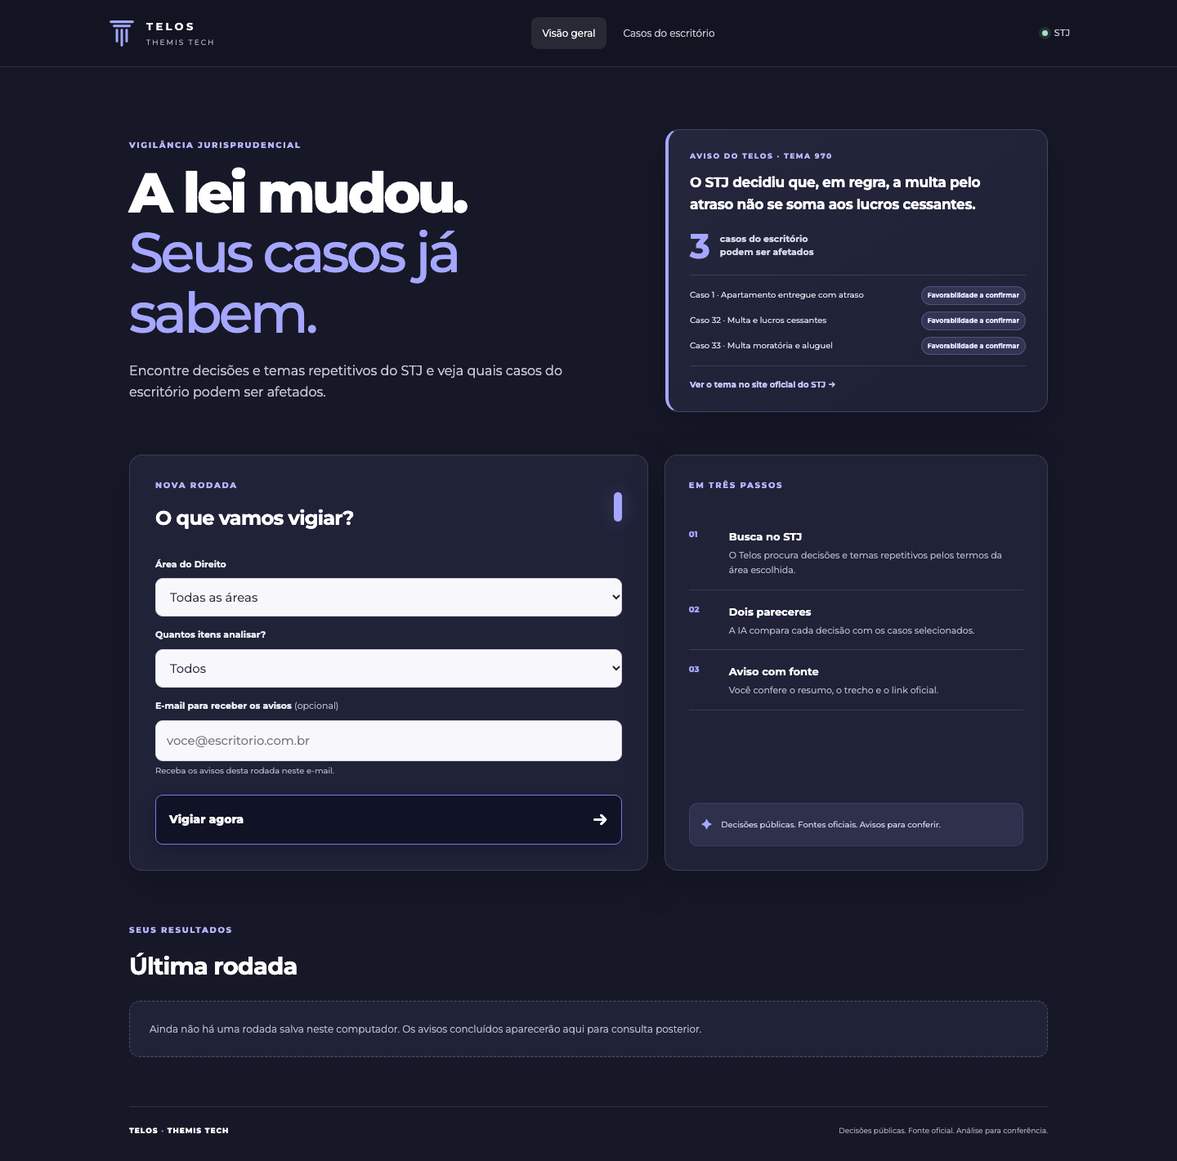
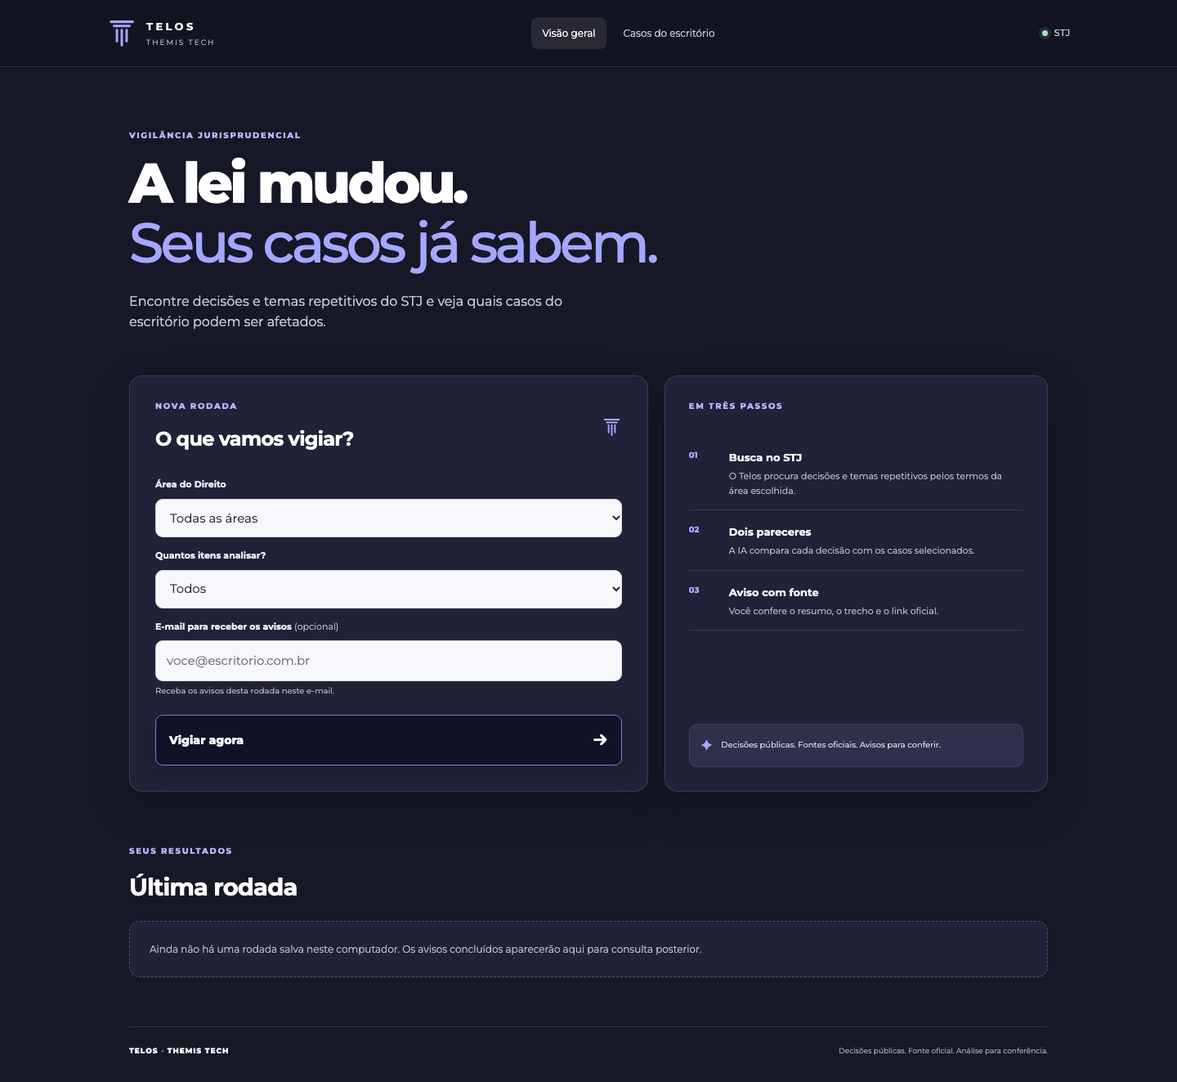
Remove o aviso de exemplo da página

diff --git a/static/style.css b/static/style.css
@@ -1,4 +1,4 @@
 :root{--navy:#171827;--navy-2:#202238;--navy-3:#292c45;--ink:#f4f4fb;--muted:#b7b8ca;--lav:#a5a7ff;--lav-light:#e9e9ff;--white:#fff;--line:rgba(226,227,255,.14);--green:#9fe2c0;--green-bg:#213c39;--red:#ffb3b0;--red-bg:#482e38;--shadow:0 18px 48px rgba(4,5,16,.22)}
-*{box-sizing:border-box}html{scroll-behavior:smooth}body{margin:0;background:var(--navy);color:var(--ink);font-family:Montserrat,system-ui,Arial,sans-serif;font-size:15px;line-height:1.6}.topbar{min-height:82px;background:#131421;color:#fff;display:flex;align-items:center;justify-content:space-between;padding:0 max(26px,calc((100vw - 1180px)/2));gap:28px;border-bottom:1px solid var(--line)}.brand{display:flex;align-items:center;gap:11px;color:#fff;text-decoration:none;letter-spacing:.16em}.brand-mark{width:38px;height:38px;object-fit:contain;display:block}.brand strong,.brand small{display:block}.brand strong{font-size:13px;letter-spacing:.26em}.brand small{color:#b9b9ca;font-size:9px;letter-spacing:.22em;margin-top:2px}.topbar nav{display:flex;align-items:center;gap:8px}.topbar nav a{color:#c5c5d0;text-decoration:none;font-size:12px;padding:10px 13px;border-radius:8px}.topbar nav a:hover,.topbar nav a.active{background:rgba(255,255,255,.09);color:#fff}.live-tag{display:flex;align-items:center;gap:8px;color:#d7d7e2;font-size:11px;letter-spacing:.06em}.live-tag i{width:7px;height:7px;border-radius:50%;background:#a5e3c5;box-shadow:0 0 0 4px rgba(165,227,197,.13)}.page-wrap{max-width:1180px;padding:0 28px;margin:0 auto}.hero{padding:76px 0 52px}.hero-grid{display:grid;grid-template-columns:minmax(0,1fr) minmax(340px,.78fr);gap:56px;align-items:center}.eyebrow{color:#b5b6ff;font-size:10px;font-weight:800;letter-spacing:.17em;margin:0 0 13px}.hero h1{font-size:clamp(42px,5.5vw,68px);line-height:1.08;letter-spacing:-.055em;color:#fff;margin:0;font-weight:750}.hero h1 em{font-weight:500;color:var(--lav);font-style:normal}.hero-copy{color:#c4c5d2;font-size:16px;max-width:600px;margin:22px 0 0}.example-alert{position:relative;background:linear-gradient(145deg,#24263c,#1e2034);border:1px solid rgba(165,167,255,.24);border-left:4px solid var(--lav);border-radius:17px;padding:25px 26px 22px;box-shadow:var(--shadow)}.example-alert .eyebrow{font-size:9px;margin-bottom:12px}.example-alert h2{font-size:17px;line-height:1.55;letter-spacing:-.02em;color:#fff;margin:0 0 17px}.example-impact{display:flex;align-items:center;gap:12px;color:#d6d6e4;margin-bottom:14px}.example-impact strong{font-size:42px;line-height:1;color:var(--lav)}.example-impact span{font-size:11px;line-height:1.45;font-weight:700}.example-cases{display:grid;grid-template-columns:minmax(0,1fr) auto;gap:8px 13px;padding:13px 0;border-top:1px solid var(--line);border-bottom:1px solid var(--line);align-items:center}.example-cases span{font-size:10px;color:#e3e3ed}.example-cases b{font-size:8px;color:#e5e5ff;background:rgba(165,167,255,.14);border:1px solid rgba(165,167,255,.25);padding:4px 7px;border-radius:20px;white-space:nowrap}.example-alert>a{display:inline-flex;margin-top:15px;color:#c4c5ff;font-size:10px;font-weight:700;text-decoration:none}.example-alert>a:hover{text-decoration:underline}.watch-layout{display:grid;grid-template-columns:minmax(0,1.15fr) minmax(290px,.85fr);gap:20px;align-items:stretch}.panel{background:var(--navy-2);border:1px solid var(--line);border-radius:16px;box-shadow:var(--shadow)}.watch-panel{padding:29px 31px 31px}.panel-heading{display:flex;align-items:center;justify-content:space-between;margin-bottom:22px}.panel-heading h2,.section-title-row h2{margin:0;color:#fff;letter-spacing:-.03em;font-size:24px}.panel-mark{width:10px;height:36px;border-radius:8px;background:var(--lav);box-shadow:0 0 22px rgba(165,167,255,.28)}.watch-panel form{display:grid;grid-template-columns:1fr;gap:8px}.watch-panel label{font-size:11px;font-weight:700;color:#eeeef6;margin-top:6px}.watch-panel label span{font-weight:400;color:var(--muted)}input,select{width:100%;font:inherit;color:#24263a;border:1px solid #d8d8e3;border-radius:9px;background:#f8f8fc;padding:12px 13px;outline:none}input:focus,select:focus{border-color:#9395ff;box-shadow:0 0 0 3px rgba(165,167,255,.2)}.field-note{font-size:10px;color:#b7b8ca;margin:-4px 0 2px}.button{border:0;border-radius:9px;font:inherit;font-weight:750;cursor:pointer;transition:transform .16s ease,background .16s ease}.primary{background:#101326;color:#fff;padding:13px 16px;border:1px solid #777be0;box-shadow:0 6px 20px rgba(6,8,23,.24)}.primary:hover{background:#252a50;transform:translateY(-1px)}.primary:disabled{opacity:.55;cursor:wait;transform:none}.watch-button{margin-top:11px;display:flex;justify-content:space-between;align-items:center;font-size:14px}.watch-button span:last-child{font-size:21px}.form-error{background:var(--red-bg);color:var(--red);border-radius:8px;padding:10px 12px;font-size:12px;margin:4px 0 0}.how-panel{padding:29px;display:flex;flex-direction:column}.steps{padding:0;margin:15px 0 20px;list-style:none}.steps li{display:grid;grid-template-columns:36px 1fr;gap:13px;padding:14px 0;border-bottom:1px solid var(--line)}.steps li>span{color:var(--lav);font-size:10px;font-weight:800;padding-top:2px}.steps strong{color:#fff;font-size:13px}.steps p{color:var(--muted);font-size:11px;margin:3px 0 0}.privacy-note{display:flex;align-items:center;gap:11px;background:rgba(165,167,255,.1);border:1px solid rgba(165,167,255,.13);border-radius:10px;padding:12px 14px;margin-top:auto;color:var(--lav)}.privacy-note span{font-size:17px}.privacy-note p{color:#d3d3e2;font-size:10px;margin:0}.progress-panel{margin-top:22px;padding:17px 20px;border-radius:13px;background:#10111e;border:1px solid var(--line);color:#fff;display:grid;grid-template-columns:40px minmax(0,1fr);gap:10px 13px;align-items:center}.progress-panel[hidden]{display:none}.progress-symbol{width:34px;height:34px;border-radius:50%;border:3px solid rgba(165,167,255,.28);border-top-color:var(--lav);animation:spin 1s linear infinite}.progress-copy strong{font-size:13px}.progress-copy p{color:#c8c8d7;font-size:11px;margin:2px 0 0}.progress-track{grid-column:1/-1;height:4px;background:#45465a;border-radius:9px;overflow:hidden}.progress-track span{display:block;height:100%;width:5%;background:var(--lav);border-radius:9px;transition:width .4s ease}.section-block{margin-top:65px}.section-title-row{display:flex;justify-content:space-between;align-items:end;margin-bottom:18px}.section-title-row h2{font-size:29px}.last-round-date{color:var(--muted);font-size:10px}.round-summary{display:flex;flex-wrap:wrap;gap:8px;margin-bottom:14px}.summary-chip{background:rgba(165,167,255,.14);border:1px solid rgba(165,167,255,.15);border-radius:20px;padding:6px 11px;color:#d8d8ff;font-size:10px;font-weight:700}.notice-grid{display:grid;grid-template-columns:1fr 1fr;gap:14px}.notice-card,.review-card{padding:22px 23px}.notice-card h3{font-size:15px;line-height:1.5;color:#fff;margin:0 0 10px}.impact-count{display:flex;align-items:baseline;gap:8px;color:#e8e8f1;margin-bottom:12px}.impact-count strong{font-size:32px;line-height:1;color:var(--lav)}.impact-count span{font-size:11px;font-weight:700}.decision-meta{color:#b7b8ca;font-size:9px;margin:8px 0 12px}.affected-list{list-style:none;padding:0;margin:0;border-top:1px solid var(--line)}.affected-list li{display:flex;justify-content:space-between;align-items:center;gap:10px;padding:10px 0;border-bottom:1px solid var(--line);font-size:11px}.badge{font-size:8px;font-weight:800;letter-spacing:.035em;padding:5px 8px;border-radius:20px;white-space:nowrap}.badge.good{background:var(--green-bg);color:var(--green)}.badge.bad{background:var(--red-bg);color:var(--red)}.badge.uncertain{background:#38394d;color:#e2e2ef}.evidence{margin:13px 0 0;background:rgba(165,167,255,.1);border-left:3px solid var(--lav);border-radius:0 8px 8px 0;padding:12px 13px;color:#eeeeff;font-size:12px;line-height:1.6}.evidence small{font:700 9px/1.5 Montserrat,system-ui,sans-serif;color:#b7b8ca;display:block;margin-bottom:3px}.official-link{display:inline-flex;margin-top:16px;color:#c4c5ff;font-size:10px;font-weight:750;text-decoration:none}.official-link:hover{text-decoration:underline}.review-section{margin-top:33px}.review-section h3{font-size:13px;letter-spacing:.08em;color:#d7d7ff;margin:0 0 13px}.review-card{background:#2d2942;border-color:rgba(225,194,255,.22);box-shadow:none;margin-bottom:12px}.review-case-title{font-weight:750;color:#fff;font-size:12px;margin:14px 0 8px}.opinion-grid{display:grid;grid-template-columns:1fr 1fr;gap:9px}.opinion{background:#211f32;border:1px solid rgba(225,194,255,.16);border-radius:9px;padding:12px;font-size:10px;white-space:pre-line;line-height:1.6;color:#eceaf5}.opinion strong{display:block;color:#d0b4ff;font-size:9px;letter-spacing:.08em;margin-bottom:6px}.divergence{margin:12px 0 0;background:rgba(215,180,255,.12);border-radius:7px;padding:10px 12px;font-size:10px;color:#e8d9ff}.empty-state{background:var(--navy-2);border:1px dashed rgba(226,227,255,.24);border-radius:13px;padding:24px;color:var(--muted);font-size:12px}.footer{border-top:1px solid var(--line);margin-top:60px;padding:22px 0 30px;display:flex;justify-content:space-between;gap:15px;color:#a7a8ba;font-size:9px}.footer-brand{letter-spacing:.11em;font-weight:800;color:#fff}.footer-brand b{color:#8586de}.footer a{color:#c4c5ff;text-decoration:none}.compact-hero{padding:58px 0 32px}.compact-hero h1{font-size:46px}.case-grid{display:grid;grid-template-columns:repeat(3,1fr);gap:14px}.case-card{padding:21px}.case-area{font-size:8px;text-transform:uppercase;letter-spacing:.12em;color:#b5b6ff;font-weight:800}.case-card h2{font-size:14px;line-height:1.5;color:#fff;margin:10px 0 7px}.case-card p{font-size:11px;color:#c4c5d2;margin:0}.cases-page .footer{margin-top:38px}.demo-toggle{display:flex;align-items:center;gap:12px;padding:12px 13px;margin:0 0 5px;background:rgba(165,167,255,.1);border:1px solid var(--line);border-radius:10px;cursor:pointer}.demo-toggle input{width:17px;height:17px;accent-color:#7477dc}.toggle-copy strong,.toggle-copy small{display:block}.toggle-copy strong{font-size:11px}.toggle-copy small{font-size:9px;font-weight:400;color:var(--muted);margin-top:2px}.cases-action{display:flex;align-items:center;gap:14px;margin-bottom:18px}.quiet-button{border:0;background:transparent;color:#d4d4ff;font:inherit;font-size:11px;font-weight:700;cursor:pointer;padding:9px}.wizard{max-width:720px;margin:0 0 24px;padding:24px}.wizard[hidden],.wizard-step[hidden]{display:none}.wizard-head{display:flex;justify-content:space-between;align-items:center}.wizard-step h2{color:#fff;margin:5px 0 16px}.wizard-step label{display:block;margin:11px 0 5px;font-size:11px;font-weight:700}.wizard-step label small{font-weight:400;color:var(--muted)}.wizard-step input,.wizard-step select,.wizard-step textarea{width:100%;padding:11px;border:1px solid #d8d8e3;border-radius:8px;font:inherit;color:#24263a}.wizard-step textarea{resize:vertical}.wizard-step>.button,.wizard-step>button[type=submit]{margin-top:18px}.privacy-lock{font-size:24px;color:#c3c4ff}.privacy-columns{display:grid;grid-template-columns:1fr 1fr;gap:12px;margin:17px 0}.privacy-columns>div{padding:14px;border-radius:9px;background:rgba(165,167,255,.1);font-size:11px}.privacy-columns strong{color:#fff}.privacy-columns p{margin:5px 0 0;color:var(--muted)}.email-action{display:flex;align-items:center;gap:14px;margin-top:18px}.email-action[hidden]{display:none}.email-action span{font-size:11px;color:var(--muted)}.no-impact-card{padding:20px;margin:12px 0}.no-impact-card h3{font-size:14px;color:#fff;margin:0 0 9px}.simulation-example{margin-top:15px}.simulation-example .notice-card{margin:0}.simulation-example>.field-note{margin:12px 0 0}@keyframes spin{to{transform:rotate(360deg)}}
-@media(max-width:900px){.hero-grid{grid-template-columns:1fr 1fr;gap:28px}.watch-layout{grid-template-columns:1fr}.case-grid{grid-template-columns:repeat(2,1fr)}.notice-grid{grid-template-columns:1fr}}
-@media(max-width:640px){.topbar{min-height:70px;padding:12px 16px;gap:10px;flex-wrap:wrap}.topbar nav{order:3;width:100%;justify-content:center}.topbar nav a{font-size:10px;padding:8px 10px}.live-tag{font-size:9px}.page-wrap{padding:0 17px}.hero{padding:45px 0 32px}.hero-grid{grid-template-columns:1fr;gap:27px}.hero h1{font-size:clamp(39px,11vw,54px)}.hero-copy{font-size:13px;margin-top:16px}.example-alert{padding:21px}.example-alert h2{font-size:15px}.example-cases{grid-template-columns:minmax(0,1fr) auto;gap:8px}.example-cases span{font-size:9px}.example-cases b{font-size:7px;padding:4px 6px}.watch-panel,.how-panel{padding:21px}.panel-heading h2{font-size:20px}.section-block{margin-top:43px}.section-title-row h2{font-size:24px}.case-grid{grid-template-columns:1fr}.opinion-grid{grid-template-columns:1fr}.footer{flex-direction:column}.last-round-date{max-width:120px;text-align:right}.privacy-columns{grid-template-columns:1fr}.email-action{align-items:flex-start;flex-direction:column}.notice-card,.review-card{padding:19px}.footer{margin-top:42px}}
+*{box-sizing:border-box}html{scroll-behavior:smooth}body{margin:0;background:var(--navy);color:var(--ink);font-family:Montserrat,system-ui,Arial,sans-serif;font-size:15px;line-height:1.6}.topbar{min-height:82px;background:#131421;color:#fff;display:flex;align-items:center;justify-content:space-between;padding:0 max(26px,calc((100vw - 1180px)/2));gap:28px;border-bottom:1px solid var(--line)}.brand{display:flex;align-items:center;gap:11px;color:#fff;text-decoration:none;letter-spacing:.16em}.brand-mark{width:38px;height:38px;object-fit:contain;display:block}.brand strong,.brand small{display:block}.brand strong{font-size:13px;letter-spacing:.26em}.brand small{color:#b9b9ca;font-size:9px;letter-spacing:.22em;margin-top:2px}.topbar nav{display:flex;align-items:center;gap:8px}.topbar nav a{color:#c5c5d0;text-decoration:none;font-size:12px;padding:10px 13px;border-radius:8px}.topbar nav a:hover,.topbar nav a.active{background:rgba(255,255,255,.09);color:#fff}.live-tag{display:flex;align-items:center;gap:8px;color:#d7d7e2;font-size:11px;letter-spacing:.06em}.live-tag i{width:7px;height:7px;border-radius:50%;background:#a5e3c5;box-shadow:0 0 0 4px rgba(165,227,197,.13)}.page-wrap{max-width:1180px;padding:0 28px;margin:0 auto}.hero{padding:76px 0 52px}.eyebrow{color:#b5b6ff;font-size:10px;font-weight:800;letter-spacing:.17em;margin:0 0 13px}.hero h1{font-size:clamp(42px,5.5vw,68px);line-height:1.08;letter-spacing:-.055em;color:#fff;margin:0;font-weight:750}.hero h1 em{font-weight:500;color:var(--lav);font-style:normal}.hero-copy{color:#c4c5d2;font-size:16px;max-width:600px;margin:22px 0 0}.watch-layout{display:grid;grid-template-columns:minmax(0,1.15fr) minmax(290px,.85fr);gap:20px;align-items:stretch}.panel{background:var(--navy-2);border:1px solid var(--line);border-radius:16px;box-shadow:var(--shadow)}.watch-panel{padding:29px 31px 31px}.panel-heading{display:flex;align-items:center;justify-content:space-between;margin-bottom:22px}.panel-heading h2,.section-title-row h2{margin:0;color:#fff;letter-spacing:-.03em;font-size:24px}.panel-mark{width:25px;height:25px;object-fit:contain;display:block}.watch-panel form{display:grid;grid-template-columns:1fr;gap:8px}.watch-panel label{font-size:11px;font-weight:700;color:#eeeef6;margin-top:6px}.watch-panel label span{font-weight:400;color:var(--muted)}input,select{width:100%;font:inherit;color:#24263a;border:1px solid #d8d8e3;border-radius:9px;background:#f8f8fc;padding:12px 13px;outline:none}input:focus,select:focus{border-color:#9395ff;box-shadow:0 0 0 3px rgba(165,167,255,.2)}.field-note{font-size:10px;color:#b7b8ca;margin:-4px 0 2px}.button{border:0;border-radius:9px;font:inherit;font-weight:750;cursor:pointer;transition:transform .16s ease,background .16s ease}.primary{background:#101326;color:#fff;padding:13px 16px;border:1px solid #777be0;box-shadow:0 6px 20px rgba(6,8,23,.24)}.primary:hover{background:#252a50;transform:translateY(-1px)}.primary:disabled{opacity:.55;cursor:wait;transform:none}.watch-button{margin-top:11px;display:flex;justify-content:space-between;align-items:center;font-size:14px}.watch-button span:last-child{font-size:21px}.form-error{background:var(--red-bg);color:var(--red);border-radius:8px;padding:10px 12px;font-size:12px;margin:4px 0 0}.how-panel{padding:29px;display:flex;flex-direction:column}.steps{padding:0;margin:15px 0 20px;list-style:none}.steps li{display:grid;grid-template-columns:36px 1fr;gap:13px;padding:14px 0;border-bottom:1px solid var(--line)}.steps li>span{color:var(--lav);font-size:10px;font-weight:800;padding-top:2px}.steps strong{color:#fff;font-size:13px}.steps p{color:var(--muted);font-size:11px;margin:3px 0 0}.privacy-note{display:flex;align-items:center;gap:11px;background:rgba(165,167,255,.1);border:1px solid rgba(165,167,255,.13);border-radius:10px;padding:12px 14px;margin-top:auto;color:var(--lav)}.privacy-note span{font-size:17px}.privacy-note p{color:#d3d3e2;font-size:10px;margin:0}.progress-panel{margin-top:22px;padding:17px 20px;border-radius:13px;background:#10111e;border:1px solid var(--line);color:#fff;display:grid;grid-template-columns:40px minmax(0,1fr);gap:10px 13px;align-items:center}.progress-panel[hidden]{display:none}.progress-symbol{width:34px;height:34px;border-radius:50%;border:3px solid rgba(165,167,255,.28);border-top-color:var(--lav);animation:spin 1s linear infinite}.progress-copy strong{font-size:13px}.progress-copy p{color:#c8c8d7;font-size:11px;margin:2px 0 0}.progress-track{grid-column:1/-1;height:4px;background:#45465a;border-radius:9px;overflow:hidden}.progress-track span{display:block;height:100%;width:5%;background:var(--lav);border-radius:9px;transition:width .4s ease}.section-block{margin-top:65px}.section-title-row{display:flex;justify-content:space-between;align-items:end;margin-bottom:18px}.section-title-row h2{font-size:29px}.last-round-date{color:var(--muted);font-size:10px}.round-summary{display:flex;flex-wrap:wrap;gap:8px;margin-bottom:14px}.summary-chip{background:rgba(165,167,255,.14);border:1px solid rgba(165,167,255,.15);border-radius:20px;padding:6px 11px;color:#d8d8ff;font-size:10px;font-weight:700}.notice-grid{display:grid;grid-template-columns:1fr 1fr;gap:14px}.notice-card,.review-card{padding:22px 23px}.notice-card h3{font-size:15px;line-height:1.5;color:#fff;margin:0 0 10px}.impact-count{display:flex;align-items:baseline;gap:8px;color:#e8e8f1;margin-bottom:12px}.impact-count strong{font-size:32px;line-height:1;color:var(--lav)}.impact-count span{font-size:11px;font-weight:700}.decision-meta{color:#b7b8ca;font-size:9px;margin:8px 0 12px}.affected-list{list-style:none;padding:0;margin:0;border-top:1px solid var(--line)}.affected-list li{display:flex;justify-content:space-between;align-items:center;gap:10px;padding:10px 0;border-bottom:1px solid var(--line);font-size:11px}.badge{font-size:8px;font-weight:800;letter-spacing:.035em;padding:5px 8px;border-radius:20px;white-space:nowrap}.badge.good{background:var(--green-bg);color:var(--green)}.badge.bad{background:var(--red-bg);color:var(--red)}.badge.uncertain{background:#38394d;color:#e2e2ef}.evidence{margin:13px 0 0;background:rgba(165,167,255,.1);border-left:3px solid var(--lav);border-radius:0 8px 8px 0;padding:12px 13px;color:#eeeeff;font-size:12px;line-height:1.6}.evidence small{font:700 9px/1.5 Montserrat,system-ui,sans-serif;color:#b7b8ca;display:block;margin-bottom:3px}.official-link{display:inline-flex;margin-top:16px;color:#c4c5ff;font-size:10px;font-weight:750;text-decoration:none}.official-link:hover{text-decoration:underline}.review-section{margin-top:33px}.review-section h3{font-size:13px;letter-spacing:.08em;color:#d7d7ff;margin:0 0 13px}.review-card{background:#2d2942;border-color:rgba(225,194,255,.22);box-shadow:none;margin-bottom:12px}.review-case-title{font-weight:750;color:#fff;font-size:12px;margin:14px 0 8px}.opinion-grid{display:grid;grid-template-columns:1fr 1fr;gap:9px}.opinion{background:#211f32;border:1px solid rgba(225,194,255,.16);border-radius:9px;padding:12px;font-size:10px;white-space:pre-line;line-height:1.6;color:#eceaf5}.opinion strong{display:block;color:#d0b4ff;font-size:9px;letter-spacing:.08em;margin-bottom:6px}.divergence{margin:12px 0 0;background:rgba(215,180,255,.12);border-radius:7px;padding:10px 12px;font-size:10px;color:#e8d9ff}.empty-state{background:var(--navy-2);border:1px dashed rgba(226,227,255,.24);border-radius:13px;padding:24px;color:var(--muted);font-size:12px}.footer{border-top:1px solid var(--line);margin-top:60px;padding:22px 0 30px;display:flex;justify-content:space-between;gap:15px;color:#a7a8ba;font-size:9px}.footer-brand{letter-spacing:.11em;font-weight:800;color:#fff}.footer-brand b{color:#8586de}.footer a{color:#c4c5ff;text-decoration:none}.compact-hero{padding:58px 0 32px}.compact-hero h1{font-size:46px}.case-grid{display:grid;grid-template-columns:repeat(3,1fr);gap:14px}.case-card{padding:21px}.case-area{font-size:8px;text-transform:uppercase;letter-spacing:.12em;color:#b5b6ff;font-weight:800}.case-card h2{font-size:14px;line-height:1.5;color:#fff;margin:10px 0 7px}.case-card p{font-size:11px;color:#c4c5d2;margin:0}.cases-page .footer{margin-top:38px}.demo-toggle{display:flex;align-items:center;gap:12px;padding:12px 13px;margin:0 0 5px;background:rgba(165,167,255,.1);border:1px solid var(--line);border-radius:10px;cursor:pointer}.demo-toggle input{width:17px;height:17px;accent-color:#7477dc}.toggle-copy strong,.toggle-copy small{display:block}.toggle-copy strong{font-size:11px}.toggle-copy small{font-size:9px;font-weight:400;color:var(--muted);margin-top:2px}.cases-action{display:flex;align-items:center;gap:14px;margin-bottom:18px}.quiet-button{border:0;background:transparent;color:#d4d4ff;font:inherit;font-size:11px;font-weight:700;cursor:pointer;padding:9px}.wizard{max-width:720px;margin:0 0 24px;padding:24px}.wizard[hidden],.wizard-step[hidden]{display:none}.wizard-head{display:flex;justify-content:space-between;align-items:center}.wizard-step h2{color:#fff;margin:5px 0 16px}.wizard-step label{display:block;margin:11px 0 5px;font-size:11px;font-weight:700}.wizard-step label small{font-weight:400;color:var(--muted)}.wizard-step input,.wizard-step select,.wizard-step textarea{width:100%;padding:11px;border:1px solid #d8d8e3;border-radius:8px;font:inherit;color:#24263a}.wizard-step textarea{resize:vertical}.wizard-step>.button,.wizard-step>button[type=submit]{margin-top:18px}.privacy-lock{font-size:24px;color:#c3c4ff}.privacy-columns{display:grid;grid-template-columns:1fr 1fr;gap:12px;margin:17px 0}.privacy-columns>div{padding:14px;border-radius:9px;background:rgba(165,167,255,.1);font-size:11px}.privacy-columns strong{color:#fff}.privacy-columns p{margin:5px 0 0;color:var(--muted)}.email-action{display:flex;align-items:center;gap:14px;margin-top:18px}.email-action[hidden]{display:none}.email-action span{font-size:11px;color:var(--muted)}.no-impact-card{padding:20px;margin:12px 0}.no-impact-card h3{font-size:14px;color:#fff;margin:0 0 9px}.simulation-example{margin-top:15px}.simulation-example .notice-card{margin:0}.simulation-example>.field-note{margin:12px 0 0}@keyframes spin{to{transform:rotate(360deg)}}
+@media(max-width:900px){.watch-layout{grid-template-columns:1fr}.case-grid{grid-template-columns:repeat(2,1fr)}.notice-grid{grid-template-columns:1fr}}
+@media(max-width:640px){.topbar{min-height:70px;padding:12px 16px;gap:10px;flex-wrap:wrap}.topbar nav{order:3;width:100%;justify-content:center}.topbar nav a{font-size:10px;padding:8px 10px}.live-tag{font-size:9px}.page-wrap{padding:0 17px}.hero{padding:45px 0 32px}.hero h1{font-size:clamp(39px,11vw,54px)}.hero-copy{font-size:13px;margin-top:16px}.watch-panel,.how-panel{padding:21px}.panel-heading h2{font-size:20px}.section-block{margin-top:43px}.section-title-row h2{font-size:24px}.case-grid{grid-template-columns:1fr}.opinion-grid{grid-template-columns:1fr}.footer{flex-direction:column}.last-round-date{max-width:120px;text-align:right}.privacy-columns{grid-template-columns:1fr}.email-action{align-items:flex-start;flex-direction:column}.notice-card,.review-card{padding:19px}.footer{margin-top:42px}}

diff --git a/templates/index.html b/templates/index.html
@@ -23,26 +23,19 @@
   </header>
 
   <main class="page-wrap">
-    <section class="hero hero-grid">
+    <section class="hero">
       <div class="hero-copy-block">
         <p class="eyebrow">VIGILÂNCIA JURISPRUDENCIAL</p>
         <h1>A lei mudou.<br><em>Seus casos já sabem.</em></h1>
         <p class="hero-copy">Encontre decisões e temas repetitivos do STJ e veja quais casos do escritório podem ser afetados.</p>
       </div>
-      <aside class="example-alert" aria-label="Exemplo de aviso do Telos">
-        <p class="eyebrow">AVISO DO TELOS · TEMA 970</p>
-        <h2>O STJ decidiu que, em regra, a multa pelo atraso não se soma aos lucros cessantes.</h2>
-        <div class="example-impact"><strong>3</strong><span>casos do escritório<br>podem ser afetados</span></div>
-        <div class="example-cases"><span>Caso 1 · Apartamento entregue com atraso</span><b>Favorabilidade a confirmar</b><span>Caso 32 · Multa e lucros cessantes</span><b>Favorabilidade a confirmar</b><span>Caso 33 · Multa moratória e aluguel</span><b>Favorabilidade a confirmar</b></div>
-        <a href="https://processo.stj.jus.br/repetitivos/temas_repetitivos/pesquisa.jsp?cod_tema_inicial=970&amp;cod_tema_final=970&amp;novaConsulta=true&amp;tipo_pesquisa=T" target="_blank" rel="noopener noreferrer">Ver o tema no site oficial do STJ →</a>
-      </aside>
     </section>
 
     <section class="watch-layout" aria-labelledby="watch-title">
       <div class="panel watch-panel">
         <div class="panel-heading">
           <div><p class="eyebrow">NOVA RODADA</p><h2 id="watch-title">O que vamos vigiar?</h2></div>
-          <span class="panel-mark" aria-hidden="true"></span>
+          <img class="panel-mark" src="{{ url_for('static', filename='themis-symbol.svg') }}" alt="">
         </div>
         <form id="watch-form">
           <label for="area">Área do Direito</label>
